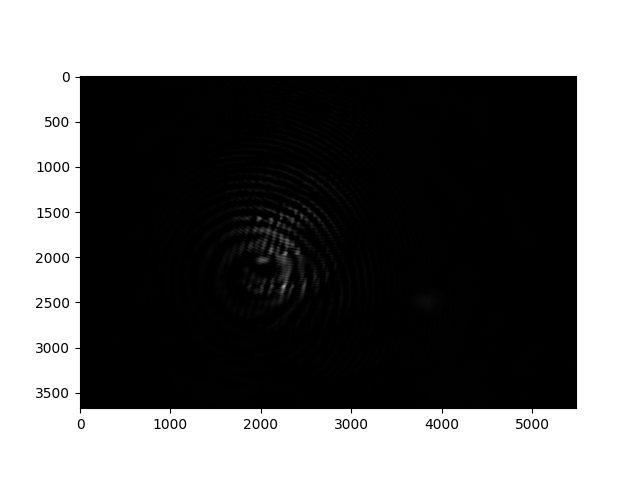
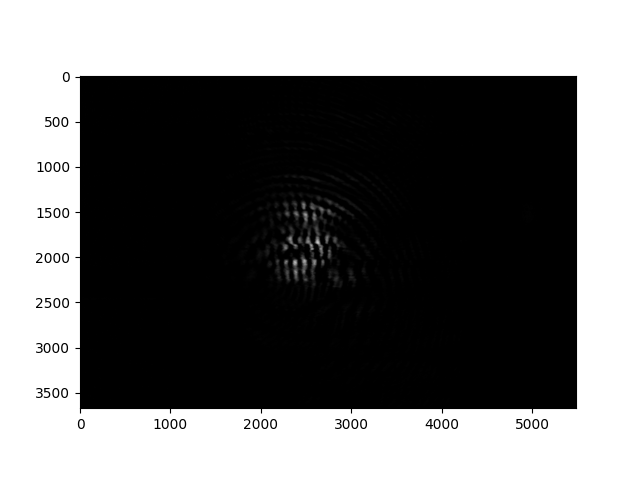
adding fixing to the UI

Changed region(s): [[0.375, 0.4062, 0.5312, 0.625]]

diff --git a/frontend/js/command-api.js b/frontend/js/command-api.js
@@ -53,27 +53,36 @@ export async function dispatchConsoleLine(line, deps, appendLine) {
 
     let command = result.command;
 
-    if (command.action === 'OPTIMIZE' && command.parameters && command.parameters.strategy === 'COBYLA') {
-        const p = { ...command.parameters };
-        if (!p.motor_ids || !p.motor_ids.length) {
-            const entry = deps.getCatalogEntry(command.target_id);
-            const motorIds = entry && entry.motor_ids;
-            if (!motorIds || !motorIds.length) {
-                appendLine(
-                    'COBYLA needs motor_ids (in JSON or component_catalog.json).',
-                    'error'
-                );
-                return;
+    if (command.action === 'OPTIMIZE' && command.parameters) {
+        const strat = command.parameters.strategy;
+        if (strat === 'COBYLA') {
+            const p = { ...command.parameters };
+            if (!p.motor_ids || !p.motor_ids.length) {
+                const entry = deps.getCatalogEntry(command.target_id);
+                const motorIds = entry && entry.motor_ids;
+                if (!motorIds || !motorIds.length) {
+                    appendLine(
+                        'COBYLA needs motor_ids (in JSON or component_catalog.json).',
+                        'error'
+                    );
+                    return;
+                }
+                p.motor_ids = motorIds;
             }
-            p.motor_ids = motorIds;
+            if (p.camera_number === undefined) {
+                p.camera_number = 1;
+            }
+            if (p.exposure === undefined && typeof deps.getTableCamExposureSeconds === 'function') {
+                p.exposure = deps.getTableCamExposureSeconds();
+            }
+            command = { ...command, parameters: p };
+        } else if (strat === 'NEWTON') {
+            const p = { ...command.parameters };
+            if (p.exposure === undefined && typeof deps.getTableCamExposureSeconds === 'function') {
+                p.exposure = deps.getTableCamExposureSeconds();
+            }
+            command = { ...command, parameters: p };
         }
-        if (p.camera_number === undefined) {
-            p.camera_number = 1;
-        }
-        if (p.exposure === undefined && typeof deps.getTableCamExposureSeconds === 'function') {
-            p.exposure = deps.getTableCamExposureSeconds();
-        }
-        command = { ...command, parameters: p };
     }
 
     if (command.action === 'MOVE_COMPONENT') {

diff --git a/frontend/js/app-main.js b/frontend/js/app-main.js
@@ -122,7 +122,8 @@ async function fetchStrategies() {
           "camera_number": { "type": "integer", "default": 2, "description": "Target Camera ID" },
           "target_x_pixel": { "type": "integer", "default": 2744, "description": "Target X (pixel)" },
           "axis": { "type": "string", "enum": ["x", "y"], "default": "x", "description": "Axis" },
-          "tolerance_ratio": { "type": "float", "default": 0.1, "description": "Tolerance" }
+          "tolerance_ratio": { "type": "float", "default": 0.1, "description": "Tolerance" },
+          "exposure": { "type": "float", "default": 0.2, "description": "Exposure (s) for strategy camera captures" }
         }
       },
       "COBYLA": {

diff --git a/frontend/js/command-parse.js b/frontend/js/command-parse.js
@@ -1,7 +1,7 @@
 /**
  * Shorthand parser for the Command Console.
  * Defaults for NEWTON/COBYLA must stay aligned with `fetchStrategies()` in js/app-main.js.
- * Console COBYLA omits `exposure`; `command-api.js` fills it from table-cam exposure when present.
+ * Console COBYLA / NEWTON may omit `exposure`; `command-api.js` fills it from table-cam exposure when present.
  * @see coding_on_the_ui.md
  */
 

diff --git a/backend/lab_communicator/real.py b/backend/lab_communicator/real.py
@@ -842,6 +842,12 @@ class RealLabCommunicator(LabCommunicator):
                 self._install_cloudlab_place_ui_hook(target_id)
                 newton_place_hook_installed = True
 
+                try:
+                    _nexp = float(params.get("exposure", 0.2))
+                except (TypeError, ValueError):
+                    _nexp = 0.2
+                _nexp = max(0.001, min(30.0, _nexp))
+
                 newton_kw: Dict[str, Any] = dict(
                     camera_number=params["camera_number"],
                     target_x_pixel=params["target_x_pixel"],
@@ -849,7 +855,8 @@ class RealLabCommunicator(LabCommunicator):
                     axis=params["axis"],
                     initial_move=-0.2,
                     do_repositioning=False,
-                    video_exposure=1.0,
+                    video_exposure=_nexp,
+                    capture_exposure=_nexp,
                 )
                 try:
                     init_sig = inspect.signature(NewtonPlacementStrategy_cloudlab.__init__)
